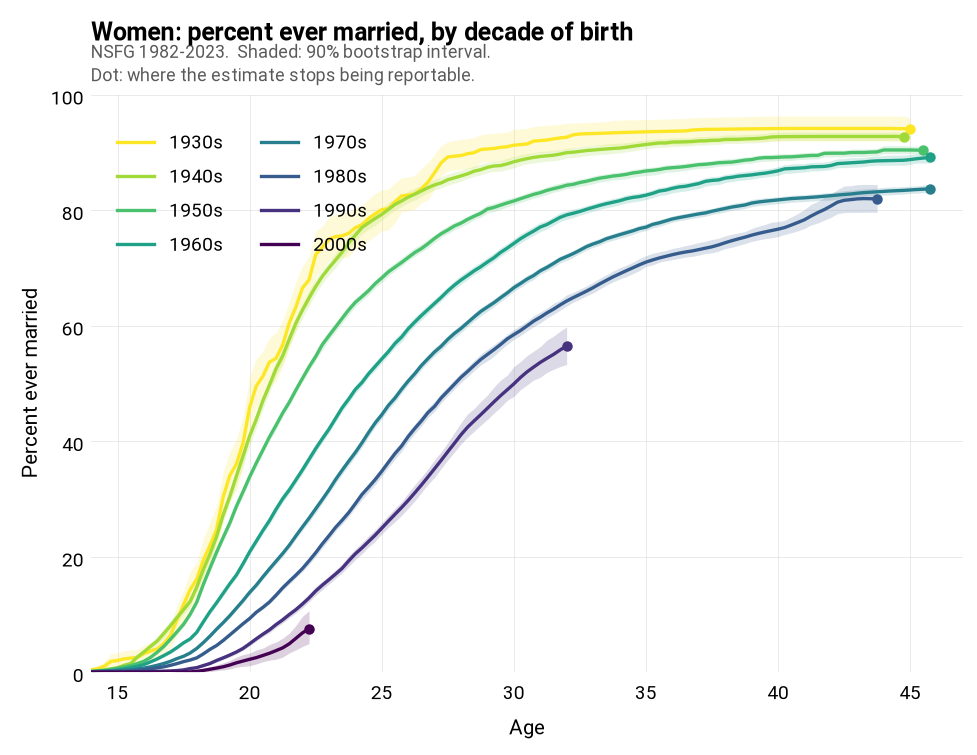
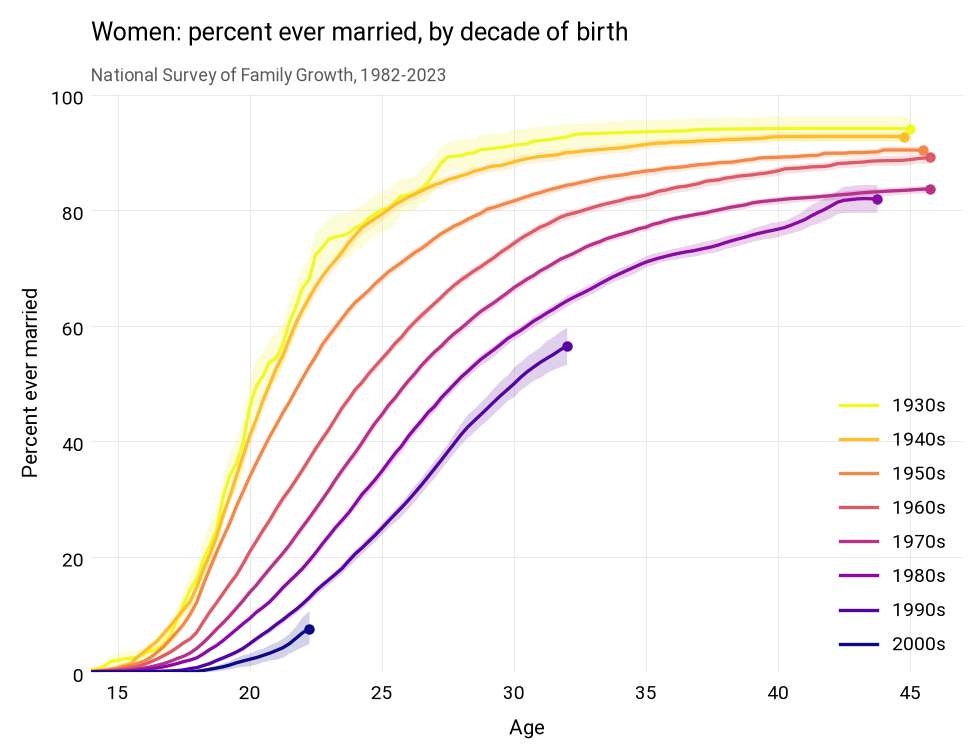
Use a more separable colour scale; simplify the figure headers
Three changes from review.

plasma_r instead of viridis_r. viridis spends most of its range in green
and blue-green, so with eight cohorts the 1930s/1940s and 1970s/1980s
pairs were nearly indistinguishable in the legend. plasma runs yellow ->
orange -> red -> magenta -> purple, which separates them while keeping
the light-to-dark ordering that puts the recent cohorts in dark. turbo
separates better still but is dark at both ends, which loses that.

Subtitles carry the data source only. The explanation of the shaded band
and the end-of-curve dot moved into the blog post, where there is room
for it. On the stopping figure the solid/dashed distinction is needed to
read the chart at all, so that moved into the legend rather than being
dropped.

Titles are no longer bold, and the legends are a single column in the
lower right, where they sit in empty space and their vertical order
matches the order of the curves.

diff --git a/scripts/plot_marriage.py b/scripts/plot_marriage.py
@@ -14,6 +14,7 @@ import matplotlib
 
 matplotlib.use("Agg")
 import matplotlib.pyplot as plt  # noqa: E402
+from matplotlib.lines import Line2D  # noqa: E402
 
 from nsfg.paths import FIGURES, interim  # noqa: E402
 from nsfg.style import apply_style, cohort_colors, decorate_axes  # noqa: E402
@@ -56,7 +57,7 @@ def plot_curves(df, colors, title, subtitle, outfile):
         color="0.35",
         va="bottom",
     )
-    ax.legend(loc="upper left", bbox_to_anchor=(0.01, 0.97), ncol=2)
+    ax.legend(loc="lower right", ncol=1)
     fig.savefig(FIGURES / outfile)
     plt.close(fig)
     print(f"  wrote {outfile}")
@@ -85,18 +86,24 @@ def plot_stopping(data, colors, outfile):
         xlim=(14, 47),
         ylim=(0, 6),
     )
-    ax.set_title("Where each estimate stops being reportable", pad=34)
+    ax.set_title("Where each estimate stops being reportable", pad=26)
     ax.text(
         0,
         1.015,
-        "Solid: women.  Dashed: men.  A curve is cut past the dotted line, "
-        "but only if it is also\nwider than two percentage points -- so a "
-        "small cohort keeps its curve and its wide interval.",
+        "National Survey of Family Growth, 1982-2023",
         transform=ax.transAxes,
-        fontsize=9,
+        fontsize=8.5,
         color="0.35",
+        va="bottom",
     )
-    ax.legend(loc="upper left", ncol=2)
+    # solid/dashed is needed to read the figure, so it belongs in the legend
+    handles, labels = ax.get_legend_handles_labels()
+    handles += [
+        Line2D([], [], color="0.35", ls="-"),
+        Line2D([], [], color="0.35", ls="--"),
+    ]
+    labels += ["women", "men"]
+    ax.legend(handles, labels, loc="upper right", ncol=1)
     fig.savefig(FIGURES / outfile)
     plt.close(fig)
     print(f"  wrote {outfile}")
@@ -112,8 +119,7 @@ def main():
             data[sex],
             colors,
             title=f"{SEX_LABELS[sex]}: percent ever married, by decade of birth",
-            subtitle="NSFG 1982-2023.  Shaded: 90% bootstrap interval.\n"
-            "Dot: where the estimate stops being reportable.",
+            subtitle="National Survey of Family Growth, 1982-2023",
             outfile=f"marriage_by_cohort_{sex}.png",
         )
     plot_stopping(data, colors, "marriage_by_cohort_stopping.png")

diff --git a/nsfg/style.py b/nsfg/style.py
@@ -19,7 +19,6 @@ RCPARAMS = {
     "axes.titlesize": 12,
     "axes.labelsize": 10,
     "axes.titlelocation": "left",
-    "axes.titleweight": "bold",
     "xtick.labelsize": 9,
     "ytick.labelsize": 9,
     "legend.fontsize": 9,
@@ -31,9 +30,15 @@ RCPARAMS = {
     "savefig.bbox": "tight",
 }
 
-# a sequential map for birth cohorts, reversed so the oldest cohort is light
-# and the most recent is dark -- the recent ones carry the argument
-COHORT_CMAP = "viridis_r"
+# A sequential map for birth cohorts, reversed so the oldest cohort is light and
+# the most recent is dark -- the recent ones carry the argument.
+#
+# plasma rather than viridis: viridis spends most of its range in green and
+# blue-green, so adjacent cohorts are hard to tell apart in a legend of eight.
+# plasma runs yellow -> orange -> red -> magenta -> purple, which separates them
+# while keeping the light-to-dark ordering. turbo separates better still but is
+# dark at both ends, which loses that ordering.
+COHORT_CMAP = "plasma_r"
 
 
 def apply_style():

diff --git a/jb/agentic_data_science.md b/jb/agentic_data_science.md
@@ -246,7 +246,8 @@ own cohort **and** imprecise in absolute terms:
 $$\text{drop where } \; sd > \max(\text{floor},\; k \times \text{median}(sd))$$
 
 The diagnostic below shows it working. Each line is one cohort's bootstrap spread
-divided by its own median. The 1930s women's curve peaks at 2.2× around age 20
+divided by its own median — solid for women, dashed for men — and the dotted line
+is the relative threshold. The 1930s women's curve peaks at 2.2× around age 20
 and is *kept*, because in absolute terms it is still precise. The 1990s and 2000s
 curves climb past the threshold and are cut.
 
@@ -257,6 +258,10 @@ curves climb past the threshold and are cut.
 Estimation is now a bootstrap that resamples respondents within cycle by sampling
 weight and *then* draws from each respondent's interval, so the spread across
 iterations carries sampling variability and date coarseness together.
+
+In the figures below, the shaded band around each curve is a 90% bootstrap
+interval, and the dot marks the age past which the data no longer supports an
+estimate — the point where the stopping rule cuts the curve off.
 
 ![Percent ever married, women, by decade of birth](figs/marriage_by_cohort_female.png)
 
